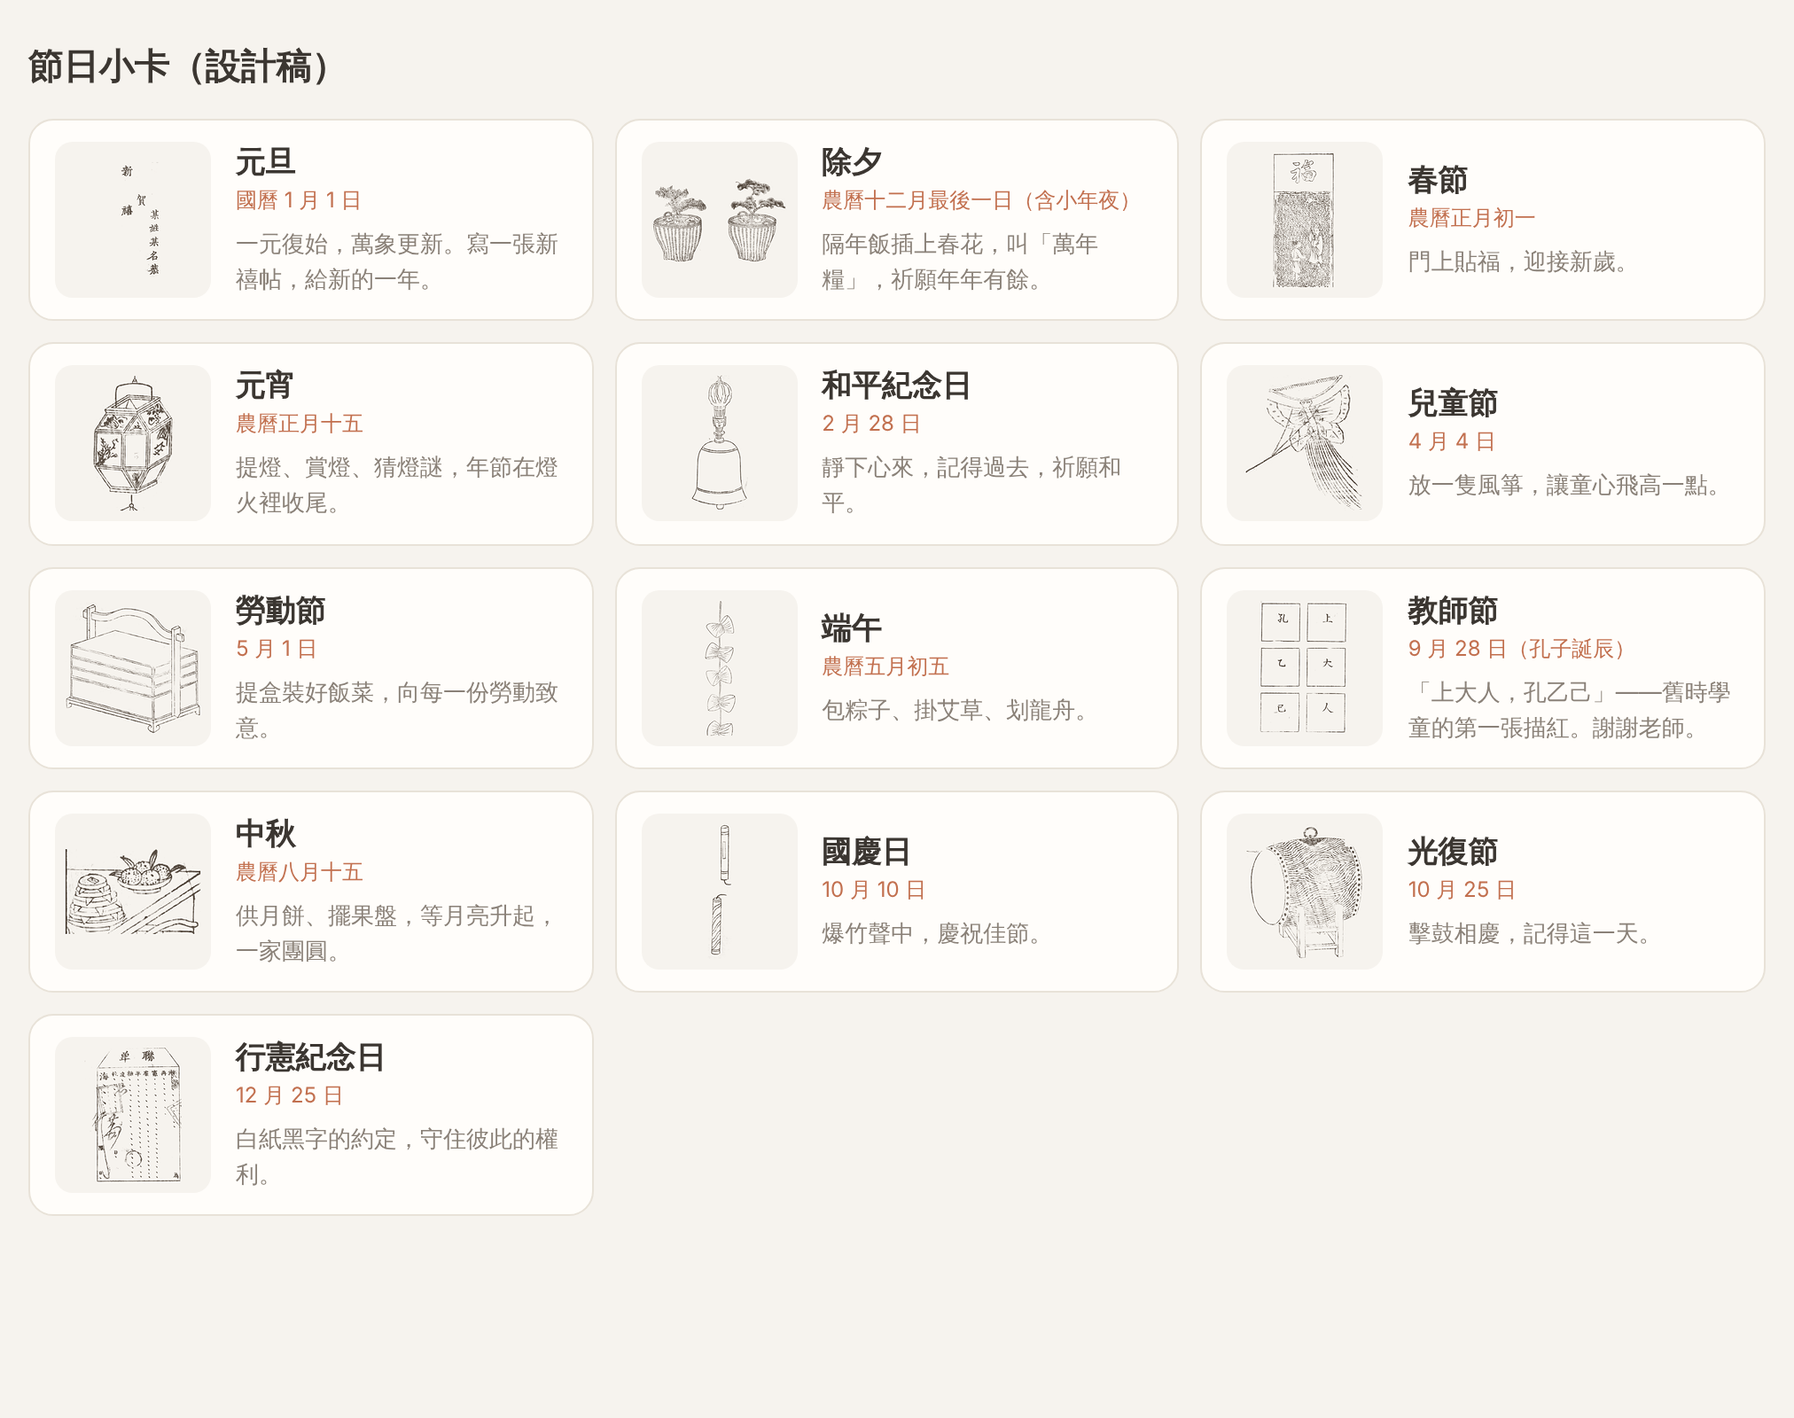
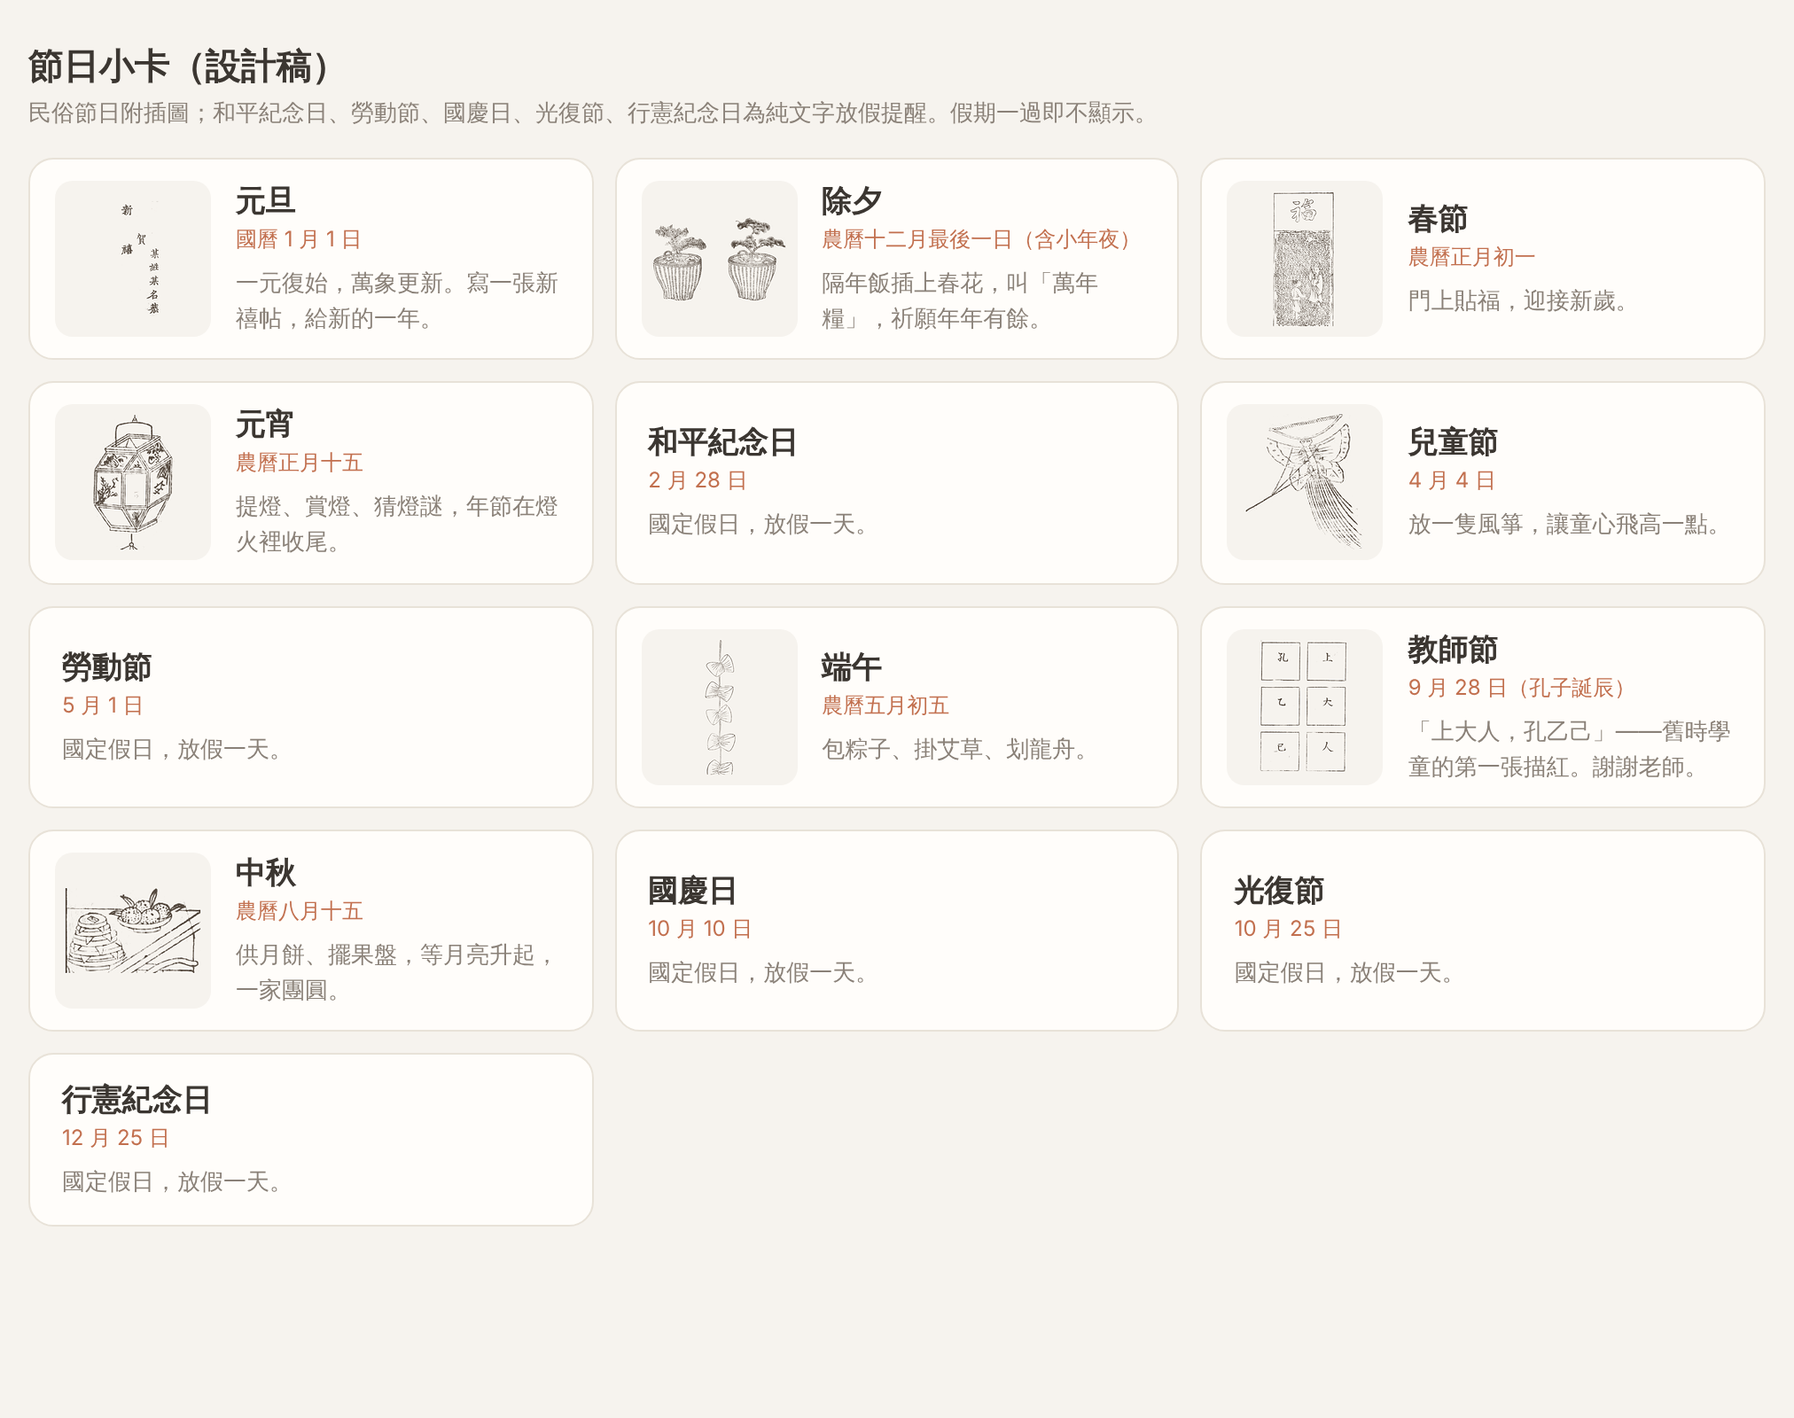
Holiday cards: text-only reminders for five commemorative days
Drop illustrations for Peace Memorial Day, Labour Day, National Day,
Retrocession Day and Constitution Day; use a neutral day-off line instead.
Add holidays.json and document that holiday cards stop showing once the
holiday (incl. make-up days) has passed, unlike the five-day jieqi rule.

Claude-Session: https://claude.ai/code/session_01YYyvxEqWwMZNQYBtAjLTYe

diff --git a/art/holidays/cards.html b/art/holidays/cards.html
@@ -8,67 +8,57 @@
 @media (prefers-color-scheme:dark){:root:not([data-theme="light"]){--bg:#1c1a17;--surface:#25221e;--ink:#ece6dd;--muted:#a3998e;--line:#37322c;--accent:#e08d6b}}
 :root[data-theme="dark"]{--bg:#1c1a17;--surface:#25221e;--ink:#ece6dd;--muted:#a3998e;--line:#37322c;--accent:#e08d6b}
 body{margin:0;background:var(--bg);color:var(--ink);font-family:var(--f-body);padding:24px 16px}
-h1{font-family:var(--f-display);font-size:20px;margin:0 0 16px}
+h1{font-family:var(--f-display);font-size:20px;margin:0 0 4px}
+.note{font-size:13px;color:var(--muted);margin:0 0 16px}
 .grid{display:grid;grid-template-columns:repeat(auto-fill,minmax(300px,1fr));gap:12px;max-width:980px}
 .card{display:flex;gap:14px;align-items:center;background:var(--surface);border:1px solid var(--line);border-radius:var(--r);padding:12px 14px}
 .card img{flex:none;border-radius:10px;background:#f6f3ee}
+.card.text-only{padding:14px 18px}
 .card h2{font-family:var(--f-display);font-size:17px;margin:0}
 .date{margin:2px 0 6px;font-size:12px;color:var(--accent)}
 .line{margin:0;font-size:13px;line-height:1.55;color:var(--muted)}
 </style></head><body>
 <h1>節日小卡（設計稿）</h1>
+<p class="note">民俗節日附插圖；和平紀念日、勞動節、國慶日、光復節、行憲紀念日為純文字放假提醒。假期一過即不顯示。</p>
 <div class="grid">
   <article class="card">
-    <img src="yuandan.webp" width="88" height="88" alt="">
-    <div class="txt"><h2>元旦</h2><p class="date">國曆 1 月 1 日</p><p class="line">一元復始，萬象更新。寫一張新禧帖，給新的一年。</p></div>
+    <img src="yuandan.webp" width="88" height="88" alt=""><div class="txt"><h2>元旦</h2><p class="date">國曆 1 月 1 日</p><p class="line">一元復始，萬象更新。寫一張新禧帖，給新的一年。</p></div>
   </article>
   <article class="card">
-    <img src="chuxi.webp" width="88" height="88" alt="">
-    <div class="txt"><h2>除夕</h2><p class="date">農曆十二月最後一日（含小年夜）</p><p class="line">隔年飯插上春花，叫「萬年糧」，祈願年年有餘。</p></div>
+    <img src="chuxi.webp" width="88" height="88" alt=""><div class="txt"><h2>除夕</h2><p class="date">農曆十二月最後一日（含小年夜）</p><p class="line">隔年飯插上春花，叫「萬年糧」，祈願年年有餘。</p></div>
   </article>
   <article class="card">
-    <img src="chunjie.webp" width="88" height="88" alt="">
-    <div class="txt"><h2>春節</h2><p class="date">農曆正月初一</p><p class="line">門上貼福，迎接新歲。</p></div>
+    <img src="chunjie.webp" width="88" height="88" alt=""><div class="txt"><h2>春節</h2><p class="date">農曆正月初一</p><p class="line">門上貼福，迎接新歲。</p></div>
   </article>
   <article class="card">
-    <img src="yuanxiao.webp" width="88" height="88" alt="">
-    <div class="txt"><h2>元宵</h2><p class="date">農曆正月十五</p><p class="line">提燈、賞燈、猜燈謎，年節在燈火裡收尾。</p></div>
+    <img src="yuanxiao.webp" width="88" height="88" alt=""><div class="txt"><h2>元宵</h2><p class="date">農曆正月十五</p><p class="line">提燈、賞燈、猜燈謎，年節在燈火裡收尾。</p></div>
+  </article>
+  <article class="card text-only">
+    <div class="txt"><h2>和平紀念日</h2><p class="date">2 月 28 日</p><p class="line">國定假日，放假一天。</p></div>
   </article>
   <article class="card">
-    <img src="heping.webp" width="88" height="88" alt="">
-    <div class="txt"><h2>和平紀念日</h2><p class="date">2 月 28 日</p><p class="line">靜下心來，記得過去，祈願和平。</p></div>
+    <img src="ertong.webp" width="88" height="88" alt=""><div class="txt"><h2>兒童節</h2><p class="date">4 月 4 日</p><p class="line">放一隻風箏，讓童心飛高一點。</p></div>
+  </article>
+  <article class="card text-only">
+    <div class="txt"><h2>勞動節</h2><p class="date">5 月 1 日</p><p class="line">國定假日，放假一天。</p></div>
   </article>
   <article class="card">
-    <img src="ertong.webp" width="88" height="88" alt="">
-    <div class="txt"><h2>兒童節</h2><p class="date">4 月 4 日</p><p class="line">放一隻風箏，讓童心飛高一點。</p></div>
+    <img src="duanwu.webp" width="88" height="88" alt=""><div class="txt"><h2>端午</h2><p class="date">農曆五月初五</p><p class="line">包粽子、掛艾草、划龍舟。</p></div>
   </article>
   <article class="card">
-    <img src="laodong.webp" width="88" height="88" alt="">
-    <div class="txt"><h2>勞動節</h2><p class="date">5 月 1 日</p><p class="line">提盒裝好飯菜，向每一份勞動致意。</p></div>
+    <img src="jiaoshi.webp" width="88" height="88" alt=""><div class="txt"><h2>教師節</h2><p class="date">9 月 28 日（孔子誕辰）</p><p class="line">「上大人，孔乙己」——舊時學童的第一張描紅。謝謝老師。</p></div>
   </article>
   <article class="card">
-    <img src="duanwu.webp" width="88" height="88" alt="">
-    <div class="txt"><h2>端午</h2><p class="date">農曆五月初五</p><p class="line">包粽子、掛艾草、划龍舟。</p></div>
+    <img src="zhongqiu.webp" width="88" height="88" alt=""><div class="txt"><h2>中秋</h2><p class="date">農曆八月十五</p><p class="line">供月餅、擺果盤，等月亮升起，一家團圓。</p></div>
   </article>
-  <article class="card">
-    <img src="jiaoshi.webp" width="88" height="88" alt="">
-    <div class="txt"><h2>教師節</h2><p class="date">9 月 28 日（孔子誕辰）</p><p class="line">「上大人，孔乙己」——舊時學童的第一張描紅。謝謝老師。</p></div>
+  <article class="card text-only">
+    <div class="txt"><h2>國慶日</h2><p class="date">10 月 10 日</p><p class="line">國定假日，放假一天。</p></div>
   </article>
-  <article class="card">
-    <img src="zhongqiu.webp" width="88" height="88" alt="">
-    <div class="txt"><h2>中秋</h2><p class="date">農曆八月十五</p><p class="line">供月餅、擺果盤，等月亮升起，一家團圓。</p></div>
+  <article class="card text-only">
+    <div class="txt"><h2>光復節</h2><p class="date">10 月 25 日</p><p class="line">國定假日，放假一天。</p></div>
   </article>
-  <article class="card">
-    <img src="guoqing.webp" width="88" height="88" alt="">
-    <div class="txt"><h2>國慶日</h2><p class="date">10 月 10 日</p><p class="line">爆竹聲中，慶祝佳節。</p></div>
-  </article>
-  <article class="card">
-    <img src="guangfu.webp" width="88" height="88" alt="">
-    <div class="txt"><h2>光復節</h2><p class="date">10 月 25 日</p><p class="line">擊鼓相慶，記得這一天。</p></div>
-  </article>
-  <article class="card">
-    <img src="xingxian.webp" width="88" height="88" alt="">
-    <div class="txt"><h2>行憲紀念日</h2><p class="date">12 月 25 日</p><p class="line">白紙黑字的約定，守住彼此的權利。</p></div>
+  <article class="card text-only">
+    <div class="txt"><h2>行憲紀念日</h2><p class="date">12 月 25 日</p><p class="line">國定假日，放假一天。</p></div>
   </article>
 </div>
 </body></html>

diff --git a/art/holidays/tools/contact.py b/art/holidays/tools/contact.py
@@ -4,7 +4,7 @@ d = sys.argv[1]; out = sys.argv[2]
 items = [l.split("|") for l in open(sys.argv[3], encoding="utf-8").read().strip().splitlines()]
 font = ImageFont.truetype(sys.argv[4], 20) if len(sys.argv) > 4 else ImageFont.load_default()
 cw, ch = 210, 250
-cols = 5; rows = (len(items) + cols - 1) // cols
+cols = 4; rows = (len(items) + cols - 1) // cols
 sheet = Image.new("RGB", (cw*cols+20, ch*rows+20), (255, 255, 255)); dr = ImageDraw.Draw(sheet)
 for i, (py, jq, pl) in enumerate(items):
     x, y = 10 + (i % cols)*cw, 10 + (i//cols)*ch

diff --git a/art/holidays/CREDITS.md b/art/holidays/CREDITS.md
@@ -1,9 +1,9 @@
 # 節日小卡插圖 · 出處與授權
 
-台灣國定假日（2025 年修法後）＋元宵，共 13 張物件插圖（`<拼音>.webp`，176×176 px，供 88×88 顯示的 2 倍圖）。清明沿用節氣卡（`art/jieqi/qingming.webp`）；小年夜併入除夕。
+台灣國定假日（2025 年修法後）＋元宵的節日小卡。8 張民俗節日附物件插圖（`<拼音>.webp`，176×176 px，供 88×88 顯示的 2 倍圖）。清明沿用節氣卡（`art/jieqi/qingming.webp`）；小年夜併入除夕。和平紀念日、勞動節、國慶日、光復節、行憲紀念日只用文字，不配圖。
 
 - **來源**：全部出自《清俗紀聞》（1799 年，長崎奉行中川忠英命人訪問清國商人後編成，記錄清代福建、浙江一帶的年節與生活習俗，石崎融思等人繪圖）。早稻田大學圖書館藏本，Wikimedia Commons 上的 PDF，**公有領域**。沒有使用 AI 生成圖，也沒有 CC BY / CC BY-SA 圖。
-- **為什麼用這本**：台灣的年節習俗多半源自閩南，這本書正好記錄閩浙習俗，物件（燈籠、粽子、萬年糧、春福、風箏、爆竹…）齊全，而且整組同一套木刻，風格一致。
+- **為什麼用這本**：台灣的年節習俗多半源自閩南，這本書正好記錄閩浙習俗，物件（燈籠、粽子、萬年糧、春福、風箏…）齊全，而且整組同一套木刻，風格一致。
 - **風格**：原圖是黑白木刻線描。處理時把線條轉成暖褐色 `#5a4b3e`、紙底統一成 `#f6f3ee`，跟節氣卡同一底色；但節氣卡是淡彩，這組是線描。
 - **處理**：從跨頁掃描裁出單一物件，去掉題字、頁框與裝訂縫，置中補成正方形後輸出 WebP（無損）。中秋用 1920px 大圖裁切，其餘用 1280px。
 
@@ -13,25 +13,41 @@
 | 除夕 | 萬年糧 | `chuxi.webp` | [WUL-bunko31 e1268 清俗紀聞 1.pdf](https://commons.wikimedia.org/wiki/File:WUL-bunko31_e1268_%E6%B8%85%E4%BF%97%E7%B4%80%E8%81%9E_1.pdf)，PDF 第 41 頁 | 中川忠英 編、石崎融思 等繪《清俗紀聞》卷一冊 | 1799（寬政十一年）刊 | Public domain（早稻田大學圖書館藏，Commons 標 Public domain） |
 | 春節 | 歡樂紙（福字門畫） | `chunjie.webp` | [WUL-bunko31 e1268 清俗紀聞 1.pdf](https://commons.wikimedia.org/wiki/File:WUL-bunko31_e1268_%E6%B8%85%E4%BF%97%E7%B4%80%E8%81%9E_1.pdf)，PDF 第 40 頁 | 中川忠英 編、石崎融思 等繪《清俗紀聞》卷一冊 | 1799（寬政十一年）刊 | Public domain（早稻田大學圖書館藏，Commons 標 Public domain） |
 | 元宵 | 燈籠（六角燈） | `yuanxiao.webp` | [WUL-bunko31 e1268 清俗紀聞 1.pdf](https://commons.wikimedia.org/wiki/File:WUL-bunko31_e1268_%E6%B8%85%E4%BF%97%E7%B4%80%E8%81%9E_1.pdf)，PDF 第 17 頁 | 中川忠英 編、石崎融思 等繪《清俗紀聞》卷一冊 | 1799（寬政十一年）刊 | Public domain（早稻田大學圖書館藏，Commons 標 Public domain） |
-| 和平紀念日 | 鈴（中座鈴） | `heping.webp` | [WUL-bunko31 e1268 清俗紀聞 5.pdf](https://commons.wikimedia.org/wiki/File:WUL-bunko31_e1268_%E6%B8%85%E4%BF%97%E7%B4%80%E8%81%9E_5.pdf)，PDF 第 36 頁 | 中川忠英 編、石崎融思 等繪《清俗紀聞》卷五冊 | 1799（寬政十一年）刊 | Public domain（早稻田大學圖書館藏，Commons 標 Public domain） |
 | 兒童節 | 風箏 | `ertong.webp` | [WUL-bunko31 e1268 清俗紀聞 1.pdf](https://commons.wikimedia.org/wiki/File:WUL-bunko31_e1268_%E6%B8%85%E4%BF%97%E7%B4%80%E8%81%9E_1.pdf)，PDF 第 23 頁 | 中川忠英 編、石崎融思 等繪《清俗紀聞》卷一冊 | 1799（寬政十一年）刊 | Public domain（早稻田大學圖書館藏，Commons 標 Public domain） |
-| 勞動節 | 提盒（櫛笥） | `laodong.webp` | [WUL-bunko31 e1268 清俗紀聞 3.pdf](https://commons.wikimedia.org/wiki/File:WUL-bunko31_e1268_%E6%B8%85%E4%BF%97%E7%B4%80%E8%81%9E_3.pdf)，PDF 第 24 頁 | 中川忠英 編、石崎融思 等繪《清俗紀聞》卷三冊 | 1799（寬政十一年）刊 | Public domain（早稻田大學圖書館藏，Commons 標 Public domain） |
 | 端午 | 粽子 | `duanwu.webp` | [WUL-bunko31 e1268 清俗紀聞 1.pdf](https://commons.wikimedia.org/wiki/File:WUL-bunko31_e1268_%E6%B8%85%E4%BF%97%E7%B4%80%E8%81%9E_1.pdf)，PDF 第 27 頁 | 中川忠英 編、石崎融思 等繪《清俗紀聞》卷一冊 | 1799（寬政十一年）刊 | Public domain（早稻田大學圖書館藏，Commons 標 Public domain） |
 | 教師節 | 描紅字帖「上大人 孔乙己」 | `jiaoshi.webp` | [WUL-bunko31 e1268 清俗紀聞 2.pdf](https://commons.wikimedia.org/wiki/File:WUL-bunko31_e1268_%E6%B8%85%E4%BF%97%E7%B4%80%E8%81%9E_2.pdf)，PDF 第 39 頁 | 中川忠英 編、石崎融思 等繪《清俗紀聞》卷二冊 | 1799（寬政十一年）刊 | Public domain（早稻田大學圖書館藏，Commons 標 Public domain） |
 | 中秋 | 月宮奠：月餅塔與果盤 | `zhongqiu.webp` | [WUL-bunko31 e1268 清俗紀聞 1.pdf](https://commons.wikimedia.org/wiki/File:WUL-bunko31_e1268_%E6%B8%85%E4%BF%97%E7%B4%80%E8%81%9E_1.pdf)，PDF 第 34 頁 | 中川忠英 編、石崎融思 等繪《清俗紀聞》卷一冊 | 1799（寬政十一年）刊 | Public domain（早稻田大學圖書館藏，Commons 標 Public domain） |
-| 國慶日 | 爆竹（花炮） | `guoqing.webp` | [WUL-bunko31 e1268 清俗紀聞 1.pdf](https://commons.wikimedia.org/wiki/File:WUL-bunko31_e1268_%E6%B8%85%E4%BF%97%E7%B4%80%E8%81%9E_1.pdf)，PDF 第 39 頁 | 中川忠英 編、石崎融思 等繪《清俗紀聞》卷一冊 | 1799（寬政十一年）刊 | Public domain（早稻田大學圖書館藏，Commons 標 Public domain） |
-| 光復節 | 大鼓 | `guangfu.webp` | [WUL-bunko31 e1268 清俗紀聞 5.pdf](https://commons.wikimedia.org/wiki/File:WUL-bunko31_e1268_%E6%B8%85%E4%BF%97%E7%B4%80%E8%81%9E_5.pdf)，PDF 第 30 頁 | 中川忠英 編、石崎融思 等繪《清俗紀聞》卷五冊 | 1799（寬政十一年）刊 | Public domain（早稻田大學圖書館藏，Commons 標 Public domain） |
-| 行憲紀念日 | 聯單（官府文書） | `xingxian.webp` | [WUL-bunko31 e1268 清俗紀聞 4.pdf](https://commons.wikimedia.org/wiki/File:WUL-bunko31_e1268_%E6%B8%85%E4%BF%97%E7%B4%80%E8%81%9E_4.pdf)，PDF 第 33 頁 | 中川忠英 編、石崎融思 等繪《清俗紀聞》卷四冊 | 1799（寬政十一年）刊 | Public domain（早稻田大學圖書館藏，Commons 標 Public domain） |
 
-## 需要使用者確認
+## 卡片內容
 
-| 節日 | 說明 |
-|---|---|
-| 行憲紀念日 | 書中找不到憲法、印信這類物件，暫用「聯單」（清代官府發給船隻的文書，上有官印和批註），取「白紙黑字的約定」之意。畫面較雜，內容其實是船籍文書，建議再考慮。 |
-| 勞動節 | 書中沒有農具、工具圖（卷二～五我只抽樣看了每三頁一頁），暫用「提盒」，取帶飯上工之意，連結偏弱。 |
-| 和平紀念日 | 用的是寺院「中座鈴」（手搖鈴，頂端有佛像紋飾），取「鐘聲、和平」之意。 |
-| 國慶日／光復節 | 爆竹、大鼓都是「慶祝」的通用意象，跟這兩個日子沒有特定關聯。 |
-| 元旦 | 只裁「新禧 賀 某姓某名恭」題字部分；原圖拜帖外框掃描太淡，沒有保留。 |
-| 教師節 | 「上大人 孔乙己」是舊時兒童描紅入門字帖，書中「閭學」（私塾）篇所附，配合 9/28 孔子誕辰。 |
+完整清單在 `holidays.json`（`image` 為 `null` 的是純文字卡）。
 
-`cards.html`／`cards-preview.png` 是卡片設計稿（只是示意，沒有改 App 程式碼）；`contact-sheet.png` 是 13 張插圖總覽。
+| 節日 | 日期 | 圖 | 文字 |
+|---|---|---|---|
+| 元旦 | 國曆 1/1 | 有 | 一元復始，萬象更新。寫一張新禧帖，給新的一年。 |
+| 除夕 | 農曆十二月最後一日（含小年夜） | 有 | 隔年飯插上春花，叫「萬年糧」，祈願年年有餘。 |
+| 春節 | 農曆正月初一 | 有 | 門上貼福，迎接新歲。 |
+| 元宵 | 農曆正月十五 | 有 | 提燈、賞燈、猜燈謎，年節在燈火裡收尾。 |
+| 和平紀念日 | 2/28 | 無 | 國定假日，放假一天。 |
+| 兒童節 | 4/4 | 有 | 放一隻風箏，讓童心飛高一點。 |
+| 勞動節 | 5/1 | 無 | 國定假日，放假一天。 |
+| 端午 | 農曆五月初五 | 有 | 包粽子、掛艾草、划龍舟。 |
+| 教師節 | 9/28 | 有 | 「上大人，孔乙己」——舊時學童的第一張描紅。謝謝老師。 |
+| 中秋 | 農曆八月十五 | 有 | 供月餅、擺果盤，等月亮升起，一家團圓。 |
+| 國慶日 | 10/10 | 無 | 國定假日，放假一天。 |
+| 光復節 | 10/25 | 無 | 國定假日，放假一天。 |
+| 行憲紀念日 | 12/25 | 無 | 國定假日，放假一天。 |
+
+## 顯示規則（實作時依此）
+
+- 節日卡是**時效性提醒**，不沿用節氣卡「顯示五天」的原則。
+- **假期一過就不再顯示**：最後一天是節日當天；若有補假或連假，到假期最後一天為止。隔天起不顯示。
+- 從哪一天開始顯示尚未決定（例如前幾天預告、或只在當天）。
+- 清明沿用節氣卡（`art/jieqi/qingming.webp`），不另做節日卡。
+
+## 備註
+
+- 元旦只裁「新禧 賀 某姓某名恭」題字部分；原圖拜帖外框掃描太淡，沒有保留。
+- 教師節「上大人 孔乙己」是舊時兒童描紅入門字帖，出自書中「閭學」（私塾）篇，配合 9/28 孔子誕辰。
+
+`cards.html`／`cards-preview.png` 是卡片設計稿（示意用，沒有改 App 程式碼）；`contact-sheet.png` 是 8 張插圖總覽。
